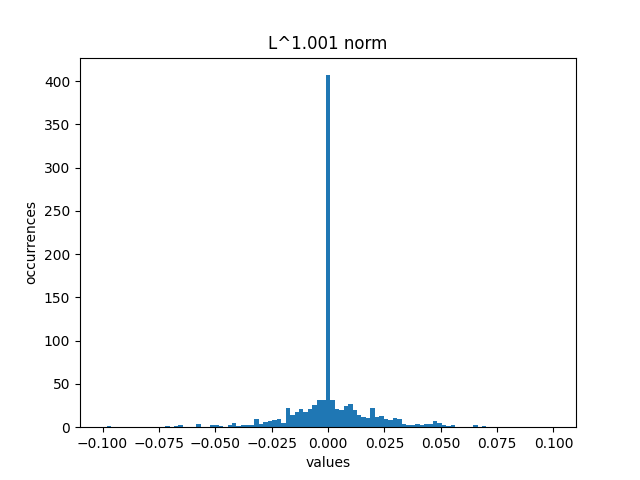
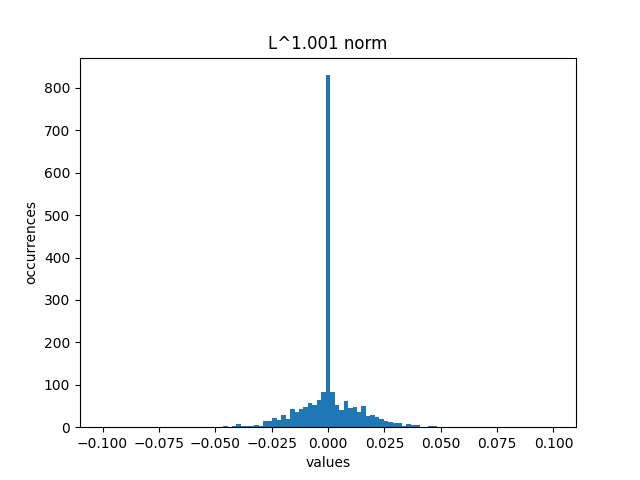
edited assets

diff --git a/test.py b/test.py
@@ -20,8 +20,8 @@ def draw_hist(x: np.ndarray, title: str = "norm", draw: bool=False):
 def norm_p(x: np.ndarray, p: float=2.0) -> float:
     return np.sum(np.abs(x)**p)**(1/p)
 
-n = 1000
-m = 200
+n = 2000
+m = 400
 A = np.random.random(size=(m, n)).astype(dtype=np.float64)
 b = np.random.random(size=(m)).astype(dtype=np.float64)
 
